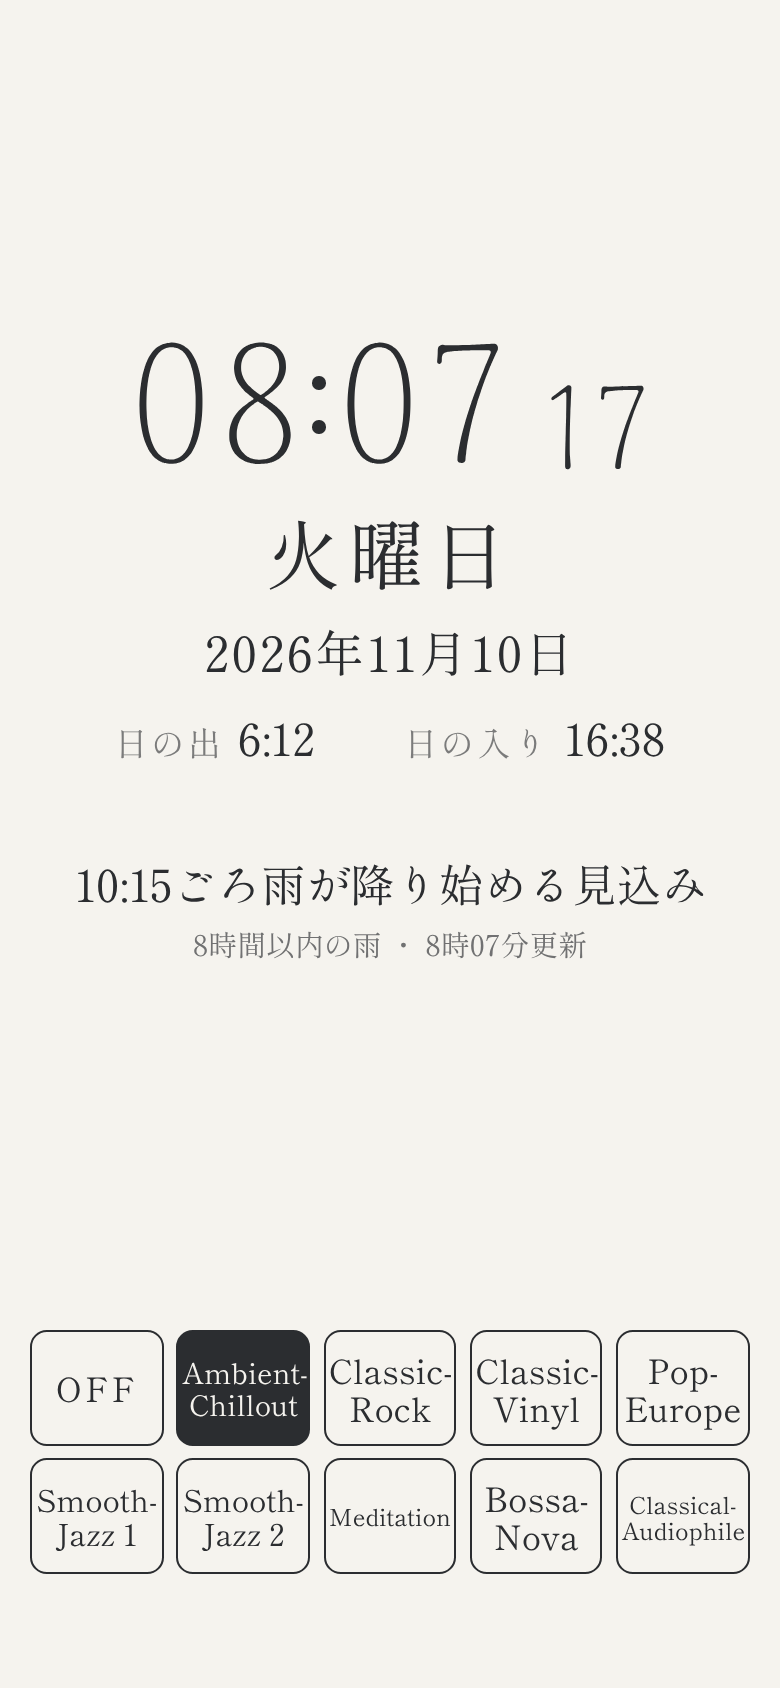
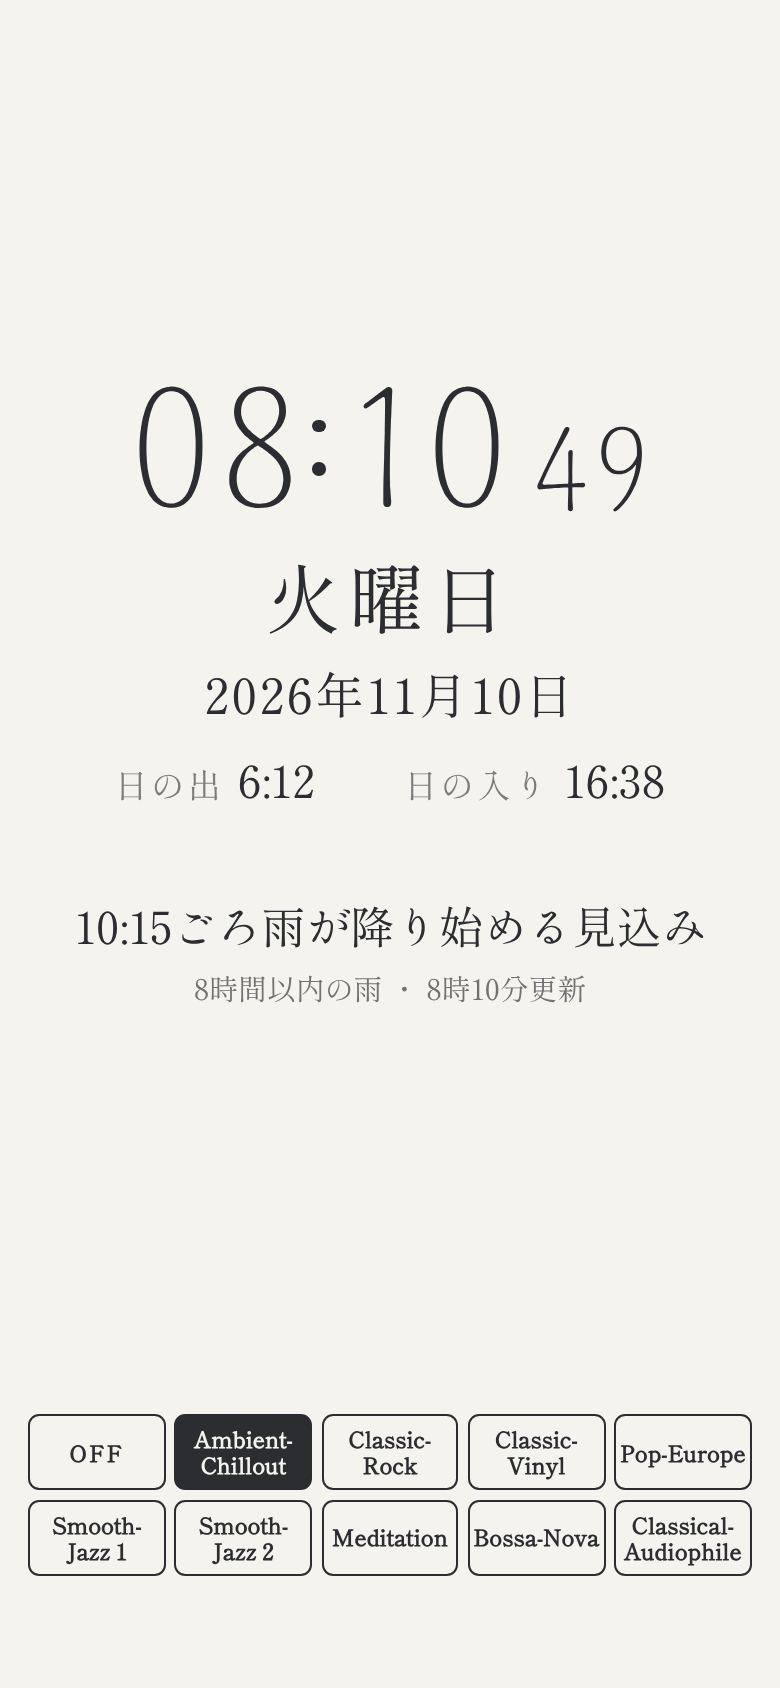
Still Here: ラジオのボタンの名前を元の大きさに戻し、太字にする
Claude-Session: https://claude.ai/code/session_01NVsEU5YZ5BtdUQZHyMLdES

diff --git a/still-here/app.js b/still-here/app.js
@@ -271,20 +271,6 @@
     p.setAttribute('aria-pressed', isOn ? 'true' : 'false');
   }
 
-  // 名前がボタンに収まらない時だけ、その名前の字を小さくする(単語の途中では折り返さない)。
-  // 文字は大きく(150%)したいが、Classical-Audiophile などは5列のボタンに入りきらないため。
-  function fitLabels() {
-    buttons.forEach(function (b) {
-      var f = b.querySelector('.fit');
-      var scale = 1;
-      f.style.fontSize = '';
-      while (scale > 0.5 && (f.scrollWidth > b.clientWidth - 2 || f.offsetHeight > b.clientHeight - 2)) {
-        scale -= 0.05;
-        f.style.fontSize = scale + 'em';
-      }
-    });
-  }
-
   function connect() {
     var st = STATIONS[selected];
     setState('接続中…');
@@ -305,7 +291,7 @@
       var b = document.createElement('button');
       b.type = 'button';
       // ハイフンの後ろで折り返せるようにする(長い名前が2行になる)
-      b.innerHTML = '<span class="fit">' + st.label.replace(/-/g, '-<wbr>') + '</span>';
+      b.innerHTML = st.label.replace(/-/g, '-<wbr>');
       b.title = st.name;
       b.addEventListener('click', function () {
         selected = i;
@@ -325,9 +311,6 @@
     audio.addEventListener('waiting', function () { if (isOn) setState('接続中…'); });
     audio.addEventListener('error', function () { if (isOn && audio.getAttribute('src')) setState('つながりませんでした'); });
     renderRadio();
-    fitLabels();
-    window.addEventListener('resize', function () { setTimeout(fitLabels, 100); });
-    if (document.fonts && document.fonts.ready) document.fonts.ready.then(fitLabels);
   }
 
   // ---- 起動 --------------------------------------------------------------

diff --git a/still-here/index.html b/still-here/index.html
@@ -99,14 +99,13 @@
     border: 1px solid var(--fg); border-radius: 0.5em;
     width: calc(20% - 0.4em); height: 3.4em; margin: 0.2em; padding: 0 0.1em;
     display: flex; align-items: center; justify-content: center; text-align: center;
-    font-size: 0.8em; line-height: 1.15; overflow: hidden; white-space: normal;
+    font-size: calc(0.8em / var(--k)); font-weight: bold; line-height: 1.15; overflow: hidden; white-space: normal;
     cursor: pointer;
     -webkit-tap-highlight-color: transparent; -webkit-appearance: none; appearance: none;
   }
   .radio button.on { background: var(--fg); color: var(--bg); }
+  /* ボタンの名前は 150% にしない(元の大きさ)。かわりに太字。Shippori Mincho は太字のファイルが無いので、ブラウザが太らせて表示する */
   .radio .power { letter-spacing: 0.1em; }
-  /* 名前は .fit の中に入れ、ボタンに収まらない時だけ app.js(fitLabels)が字を小さくする */
-  .radio .fit { display: block; max-width: 100%; }
   .radio .state { text-align: center; margin-top: 0.6em; opacity: 0.75; min-height: 1.4em; }
 
   /* 縦向き: 時刻〜雨予報を上の空きの中央に、ラジオ(ボタン10個と状態の1行)を画面の下に置く */

diff --git a/still-here/sw.js b/still-here/sw.js
@@ -9,7 +9,8 @@ const CACHE_PREFIX = 'uniiqcode-still-here-';
 // v1→v2(2026年11月): 文字を clock01 と同じ Shippori Mincho にした(fonts/ を追加)。
 // v2→v3(2026年11月): ラジオを9局にし、ボタンを ON/OFF+9局の10個(5×2・同じ大きさ・小分類名)にした。
 // v3→v4(2026年11月): 縦向きでラジオを画面の下に置き、時刻以外の文字を150%にした。
-const CACHE_NAME = CACHE_PREFIX + 'v4';
+// v4→v5(2026年11月): ラジオのボタンの名前を元の大きさに戻し、太字にした。
+const CACHE_NAME = CACHE_PREFIX + 'v5';
 
 const APP_SHELL = [
   './', 'index.html', 'app.js', 'manifest.json',
